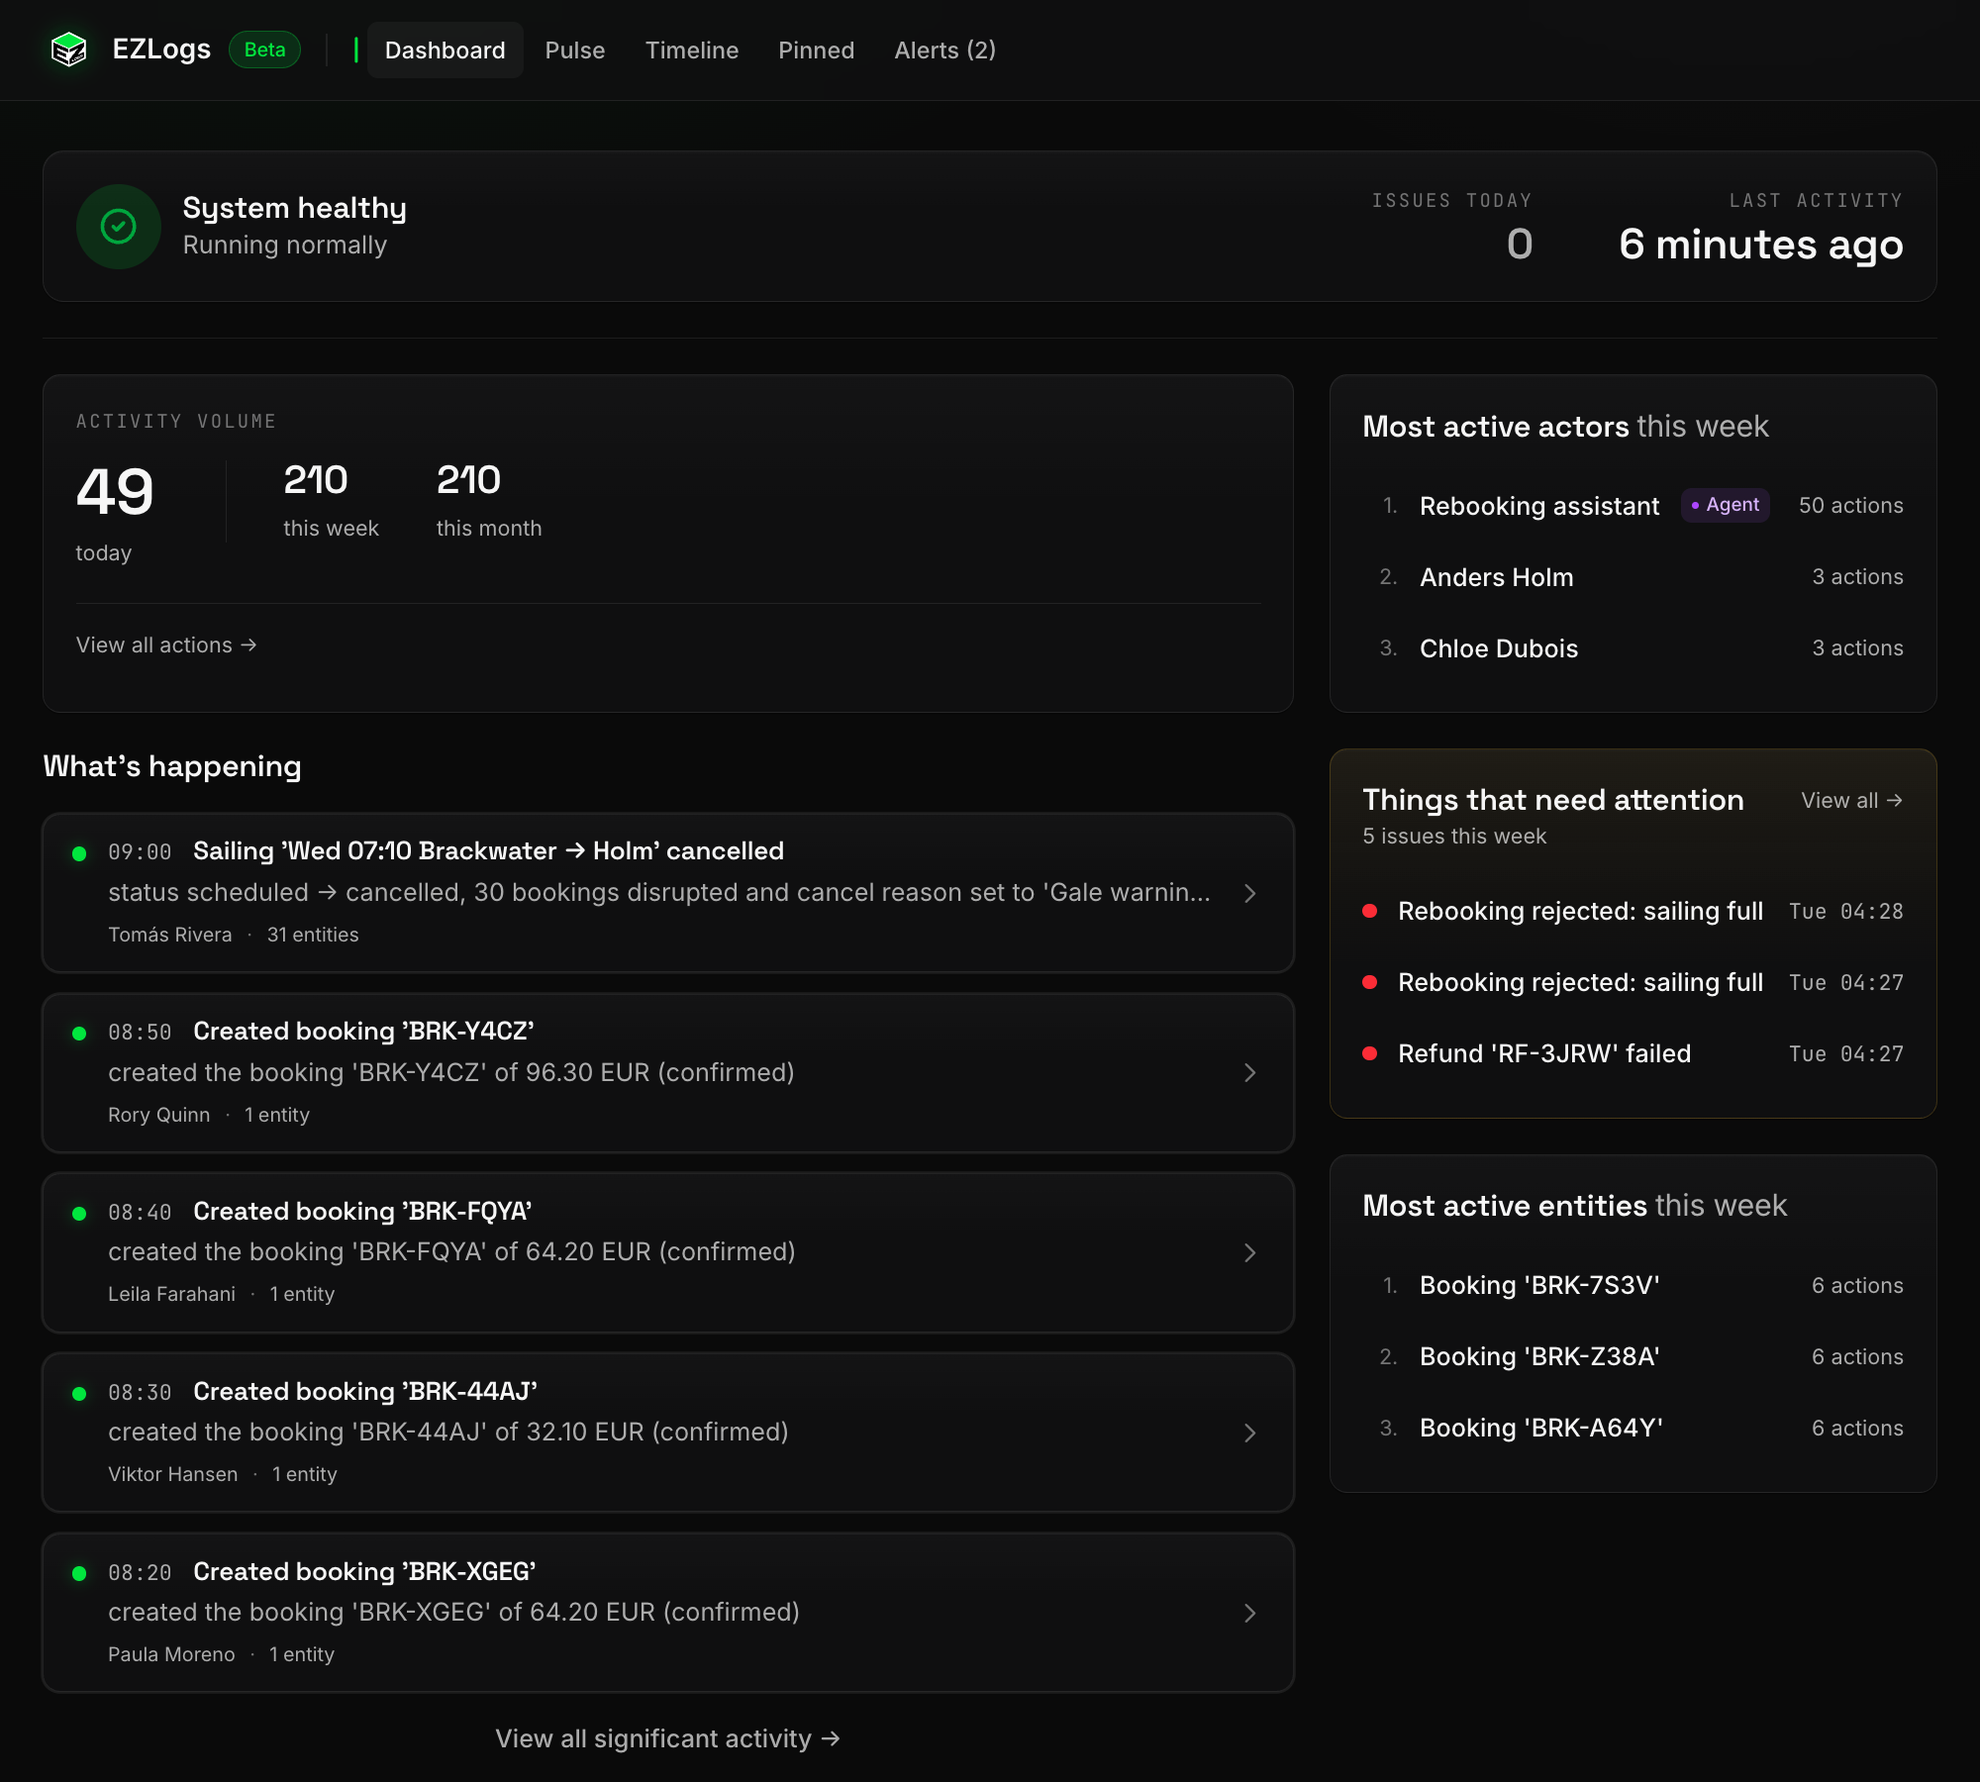
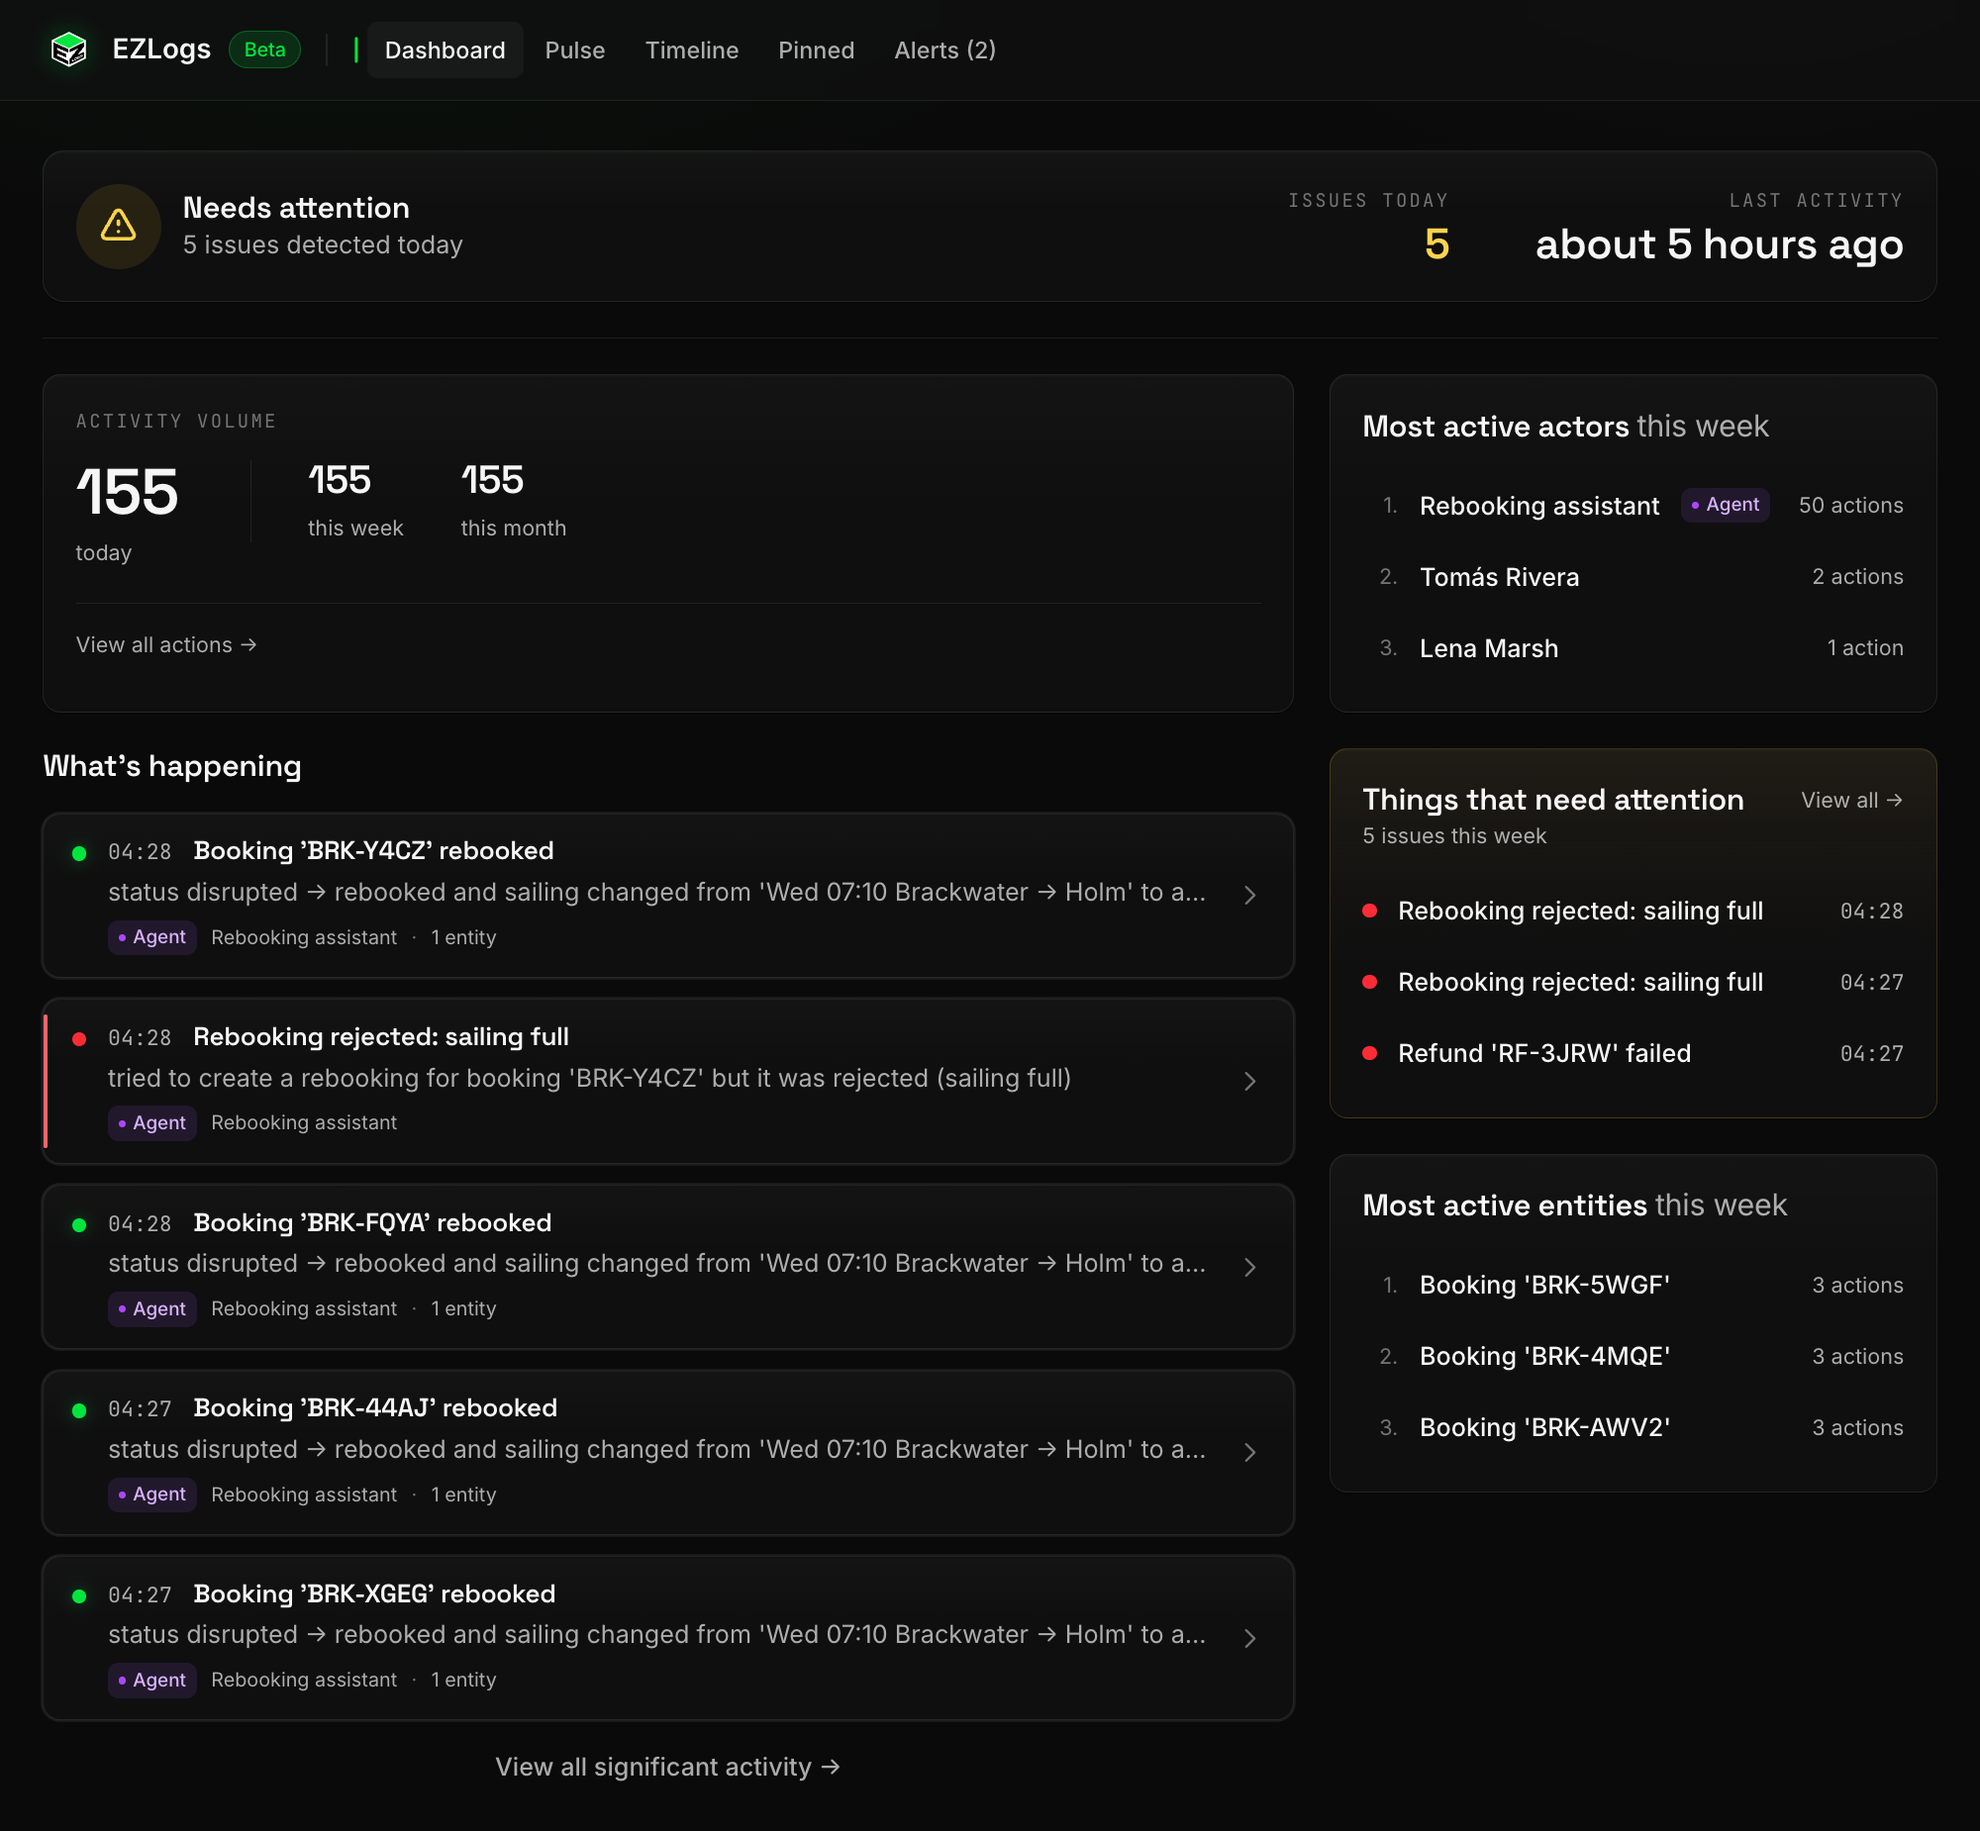
site: publish 2026-11-19 08:34 UTC

diff --git a/index.html b/index.html
@@ -982,12 +982,12 @@
       <div class="proof">
         <article class="proof__item">
           <figure class="proof__shot">
-            <img src="assets/screenshots/dashboard-ferry.png" alt="EZLogs dashboard: the system healthy with no issues today, the Rebooking assistant agent as the most active actor this week, a sailing cancelled for a gale warning and new bookings in the What's happening feed, and rejected rebookings and a failed refund under Things that need attention" width="2000" height="1800" loading="lazy">
+            <img src="assets/screenshots/dashboard-ferry.png" alt="EZLogs dashboard: 155 actions and 5 issues today, the Rebooking assistant agent as the most active actor this week, rebooked bookings and a rejected rebooking in the What's happening feed, and rejected rebookings and a failed refund under Things that need attention" width="2000" height="1850" loading="lazy">
           </figure>
           <div class="proof__text">
             <span class="proof__caption">Dashboard</span>
             <h3 class="proof__title">Open it in the morning. See what needs you.</h3>
-            <p class="proof__body">How busy the day was, what went wrong this week, and who did the most work. Here: the Rebooking assistant at the top of the list, and the rebookings it couldn&rsquo;t make waiting under Things that need attention. Every line reads like a sentence, not a log entry.</p>
+            <p class="proof__body">How busy the day was, what went wrong, and who did the most work. Here: 155 actions, 5 issues, and the Rebooking assistant at the top of the list. Every line reads like a sentence, not a log entry.</p>
           </div>
         </article>
 
